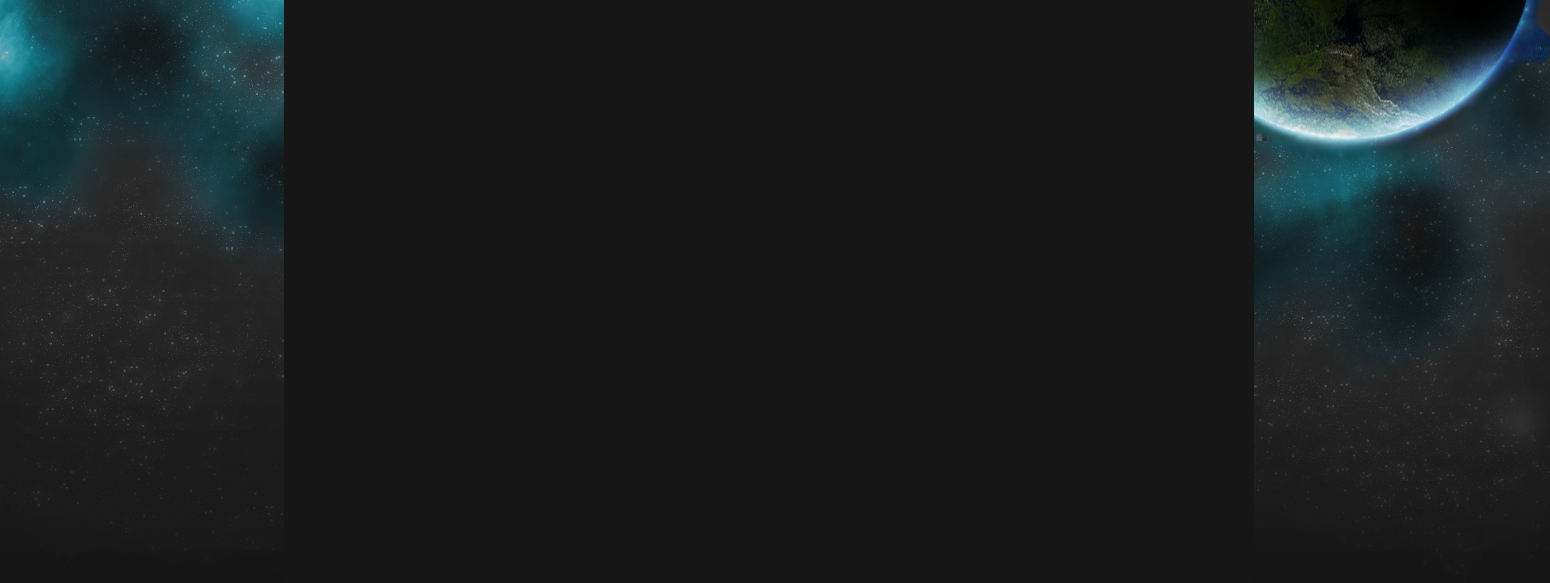
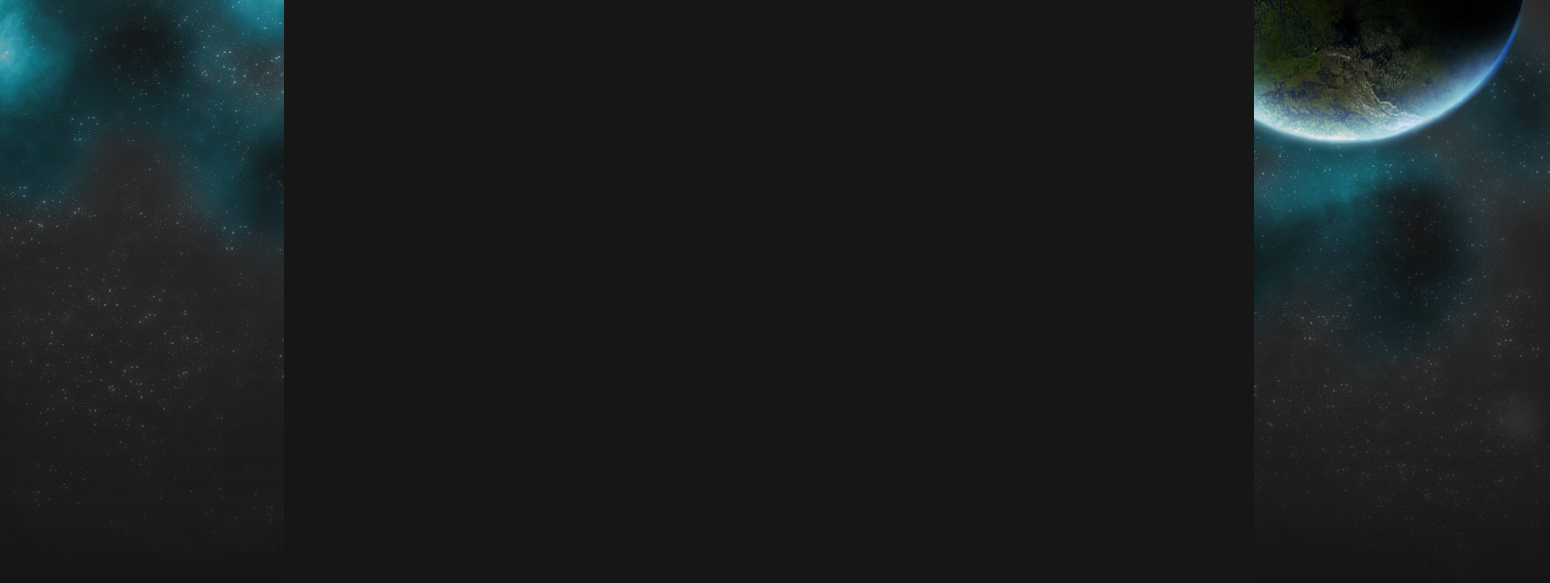
- better ingame background (cut out planet nicer) - disabled all skins except "tech" for the moment - some styling

Changed region(s): [[0.8052, 0.0926, 0.929, 0.247], [0.929, 0.0, 1.0, 0.1852]]

diff --git a/www/css/skin_tech.css b/www/css/skin_tech.css
@@ -448,6 +448,14 @@ body.skin_tech
 	margin-left:0px;
 }
 
+.skin_tech #ctn_ad_buttons {
+	text-align:center;
+}
+
+.skin_tech #ctn_ad_buttons .gnews_link img {
+	margin:5px 0px;
+}
+
 /* $7  -  Techtree -----------------------------------------------------------*/
 .skin_tech #ctn_techtree_rows .rakuun_box {
 	float:left;

diff --git a/source/gui/skinmanager.php b/source/gui/skinmanager.php
@@ -12,9 +12,9 @@ class Rakuun_GUI_Skinmanager {
 	public function __construct() {
 		// TODO: probably it's not neccessary to construct all the skin classes here.
 		// maybe only save the names of the classes?
-		$this->addSkin($default = new Rakuun_GUI_Skin_Space2());
+		//$this->addSkin($default = new Rakuun_GUI_Skin_Space2());
 		$this->addSkin($default = new Rakuun_GUI_Skin_Tech());
-		$this->addSkin(new Rakuun_GUI_Skin_Original());
+		//$this->addSkin(new Rakuun_GUI_Skin_Original());
 		$this->setCurrentSkin($default->getNameID());
 	}
 	
